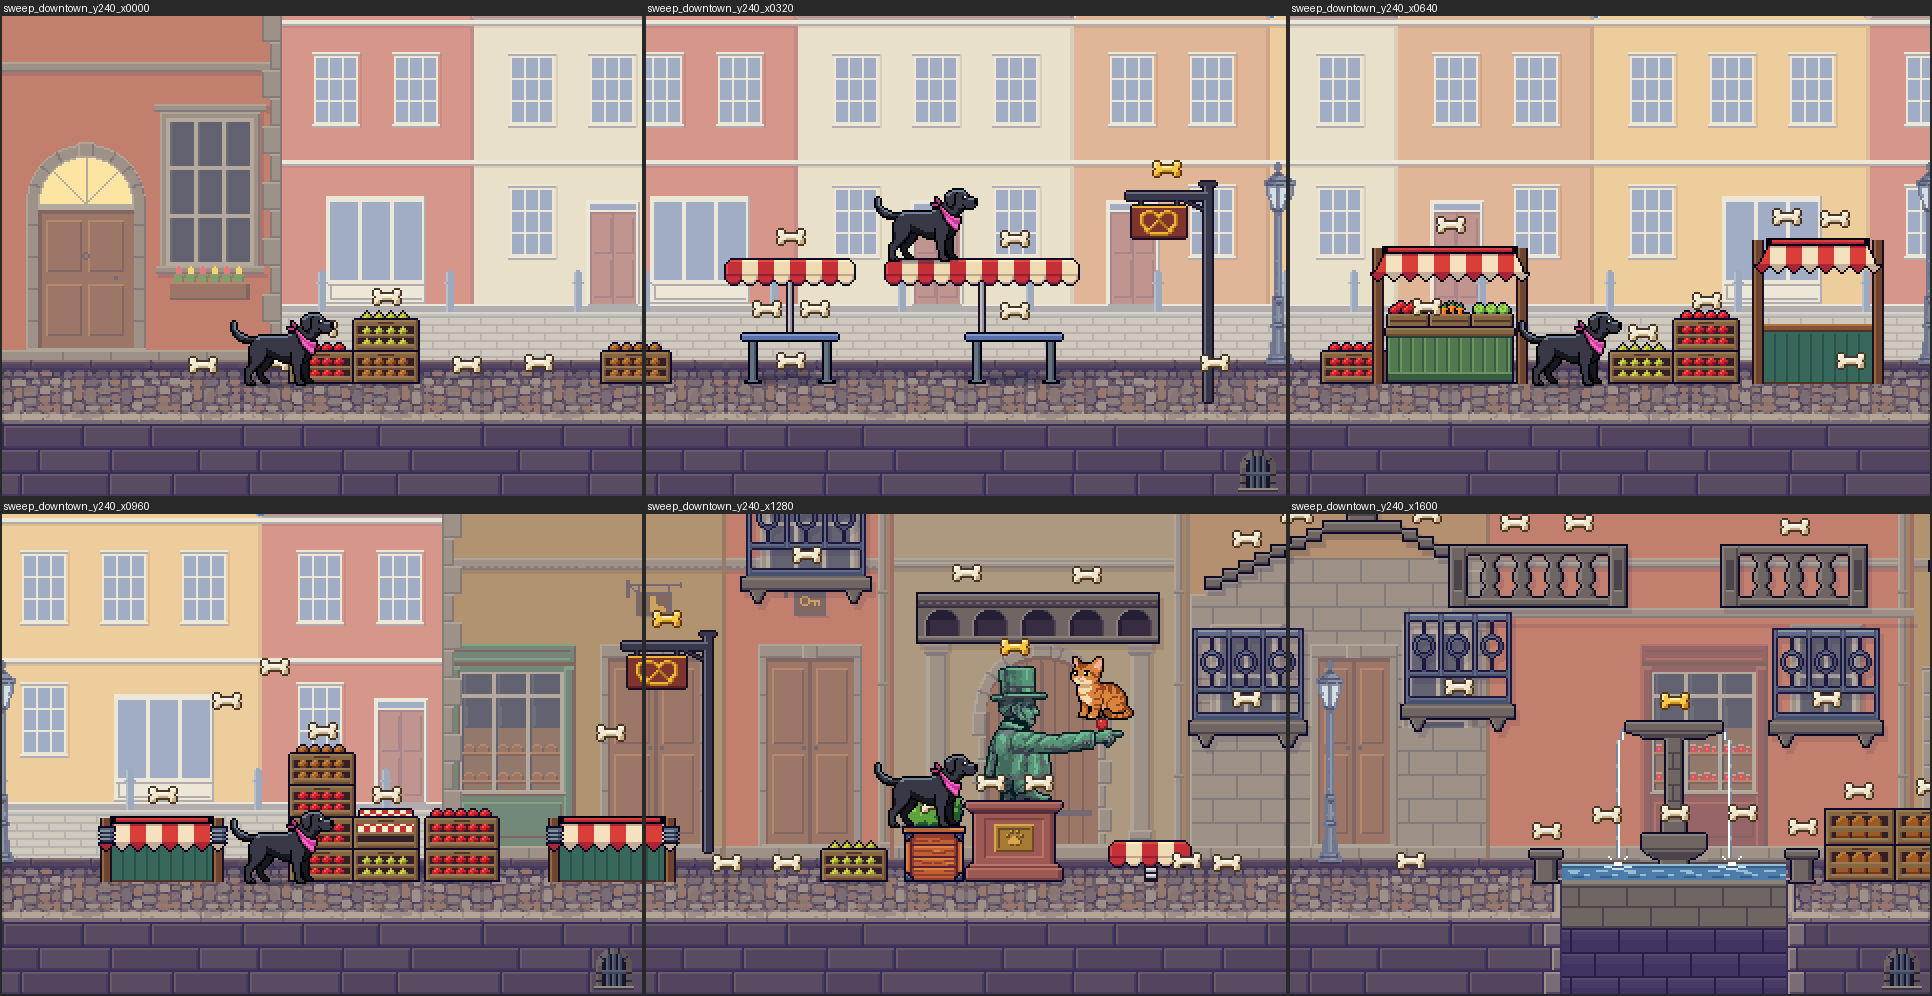
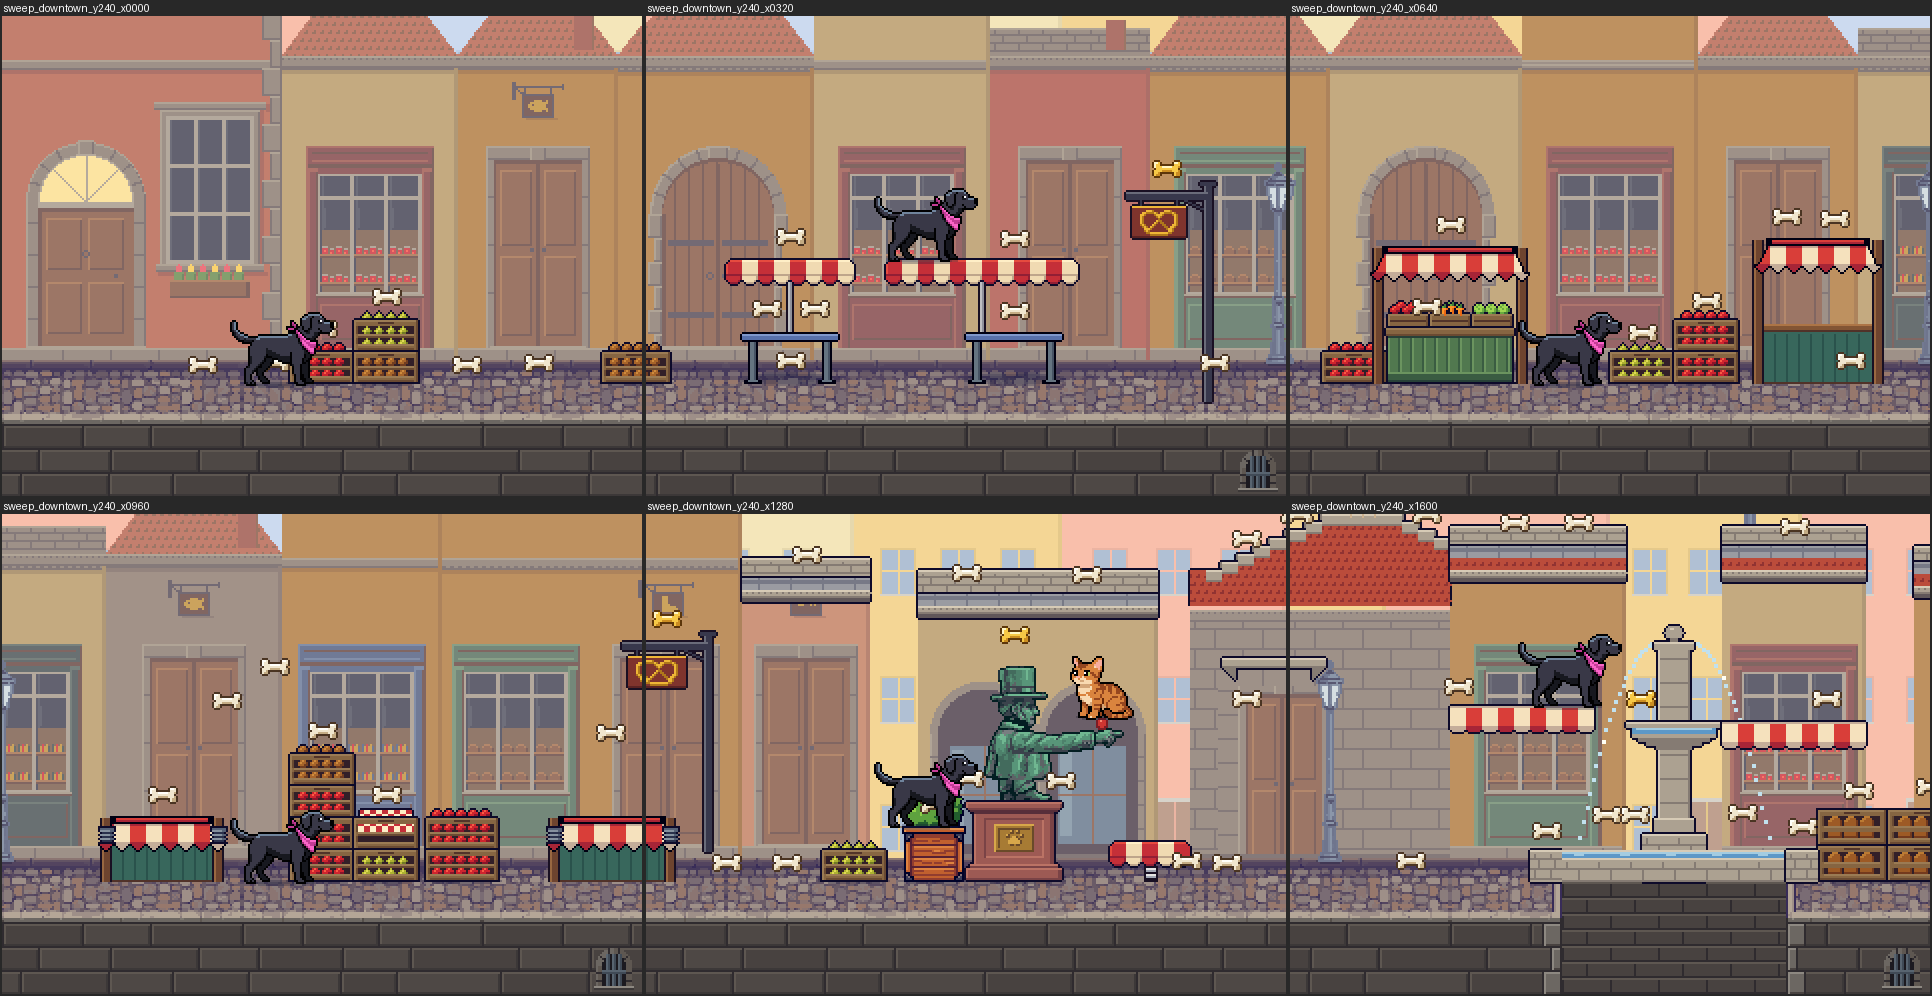
STATUS: 7 Nov day section after integration round 2 (sky again, dt); Downtown sheets, cargo gate and bonus frames
Claude-Session: https://claude.ai/code/session_01XkeHCjP6hqrE6SQGDYHeYV

diff --git a/docs/STATUS.md b/docs/STATUS.md
@@ -9,14 +9,14 @@
 4. `day/07nov-chars`: built cars, bikes and riders, the 24 px gull, the ferry, bones 15 x 9, hint pictures, the cat_r2.
 5. `day/07nov-bonusscene`: each bonus round in its level's own place.
 6. `day/07nov-ground`: ground joins by rule, the owner's ground reverts, City Park lawn kit; no kennel (secret KENNEL is now DOORSTEP).
+7. Round 2: `day/07nov-sky` again (3574b3c: Downtown's far city low and simple, 320 x 30).
+8. Round 2: `day/07nov-dt` (ea65d45): the Downtown (tall) low-row rebuild, review round 3 PASS.
 
-Not on it: `day/07nov-dt` (Downtown still in review).
+**Integration commits:** `check_pepper_files.sh` compares input.lua without the menus' last-used device block (it failed on main since 4afd8d2; Pepper unchanged by the trace and the lab). Two merge fixes for the bigger 15 x 9 bone: City Park tall's leaf-pile bones 143 and 144 moved 11 px left with their pile; Downtown tall bones 157, 158, 159 and 165 nudged 2 to 3 px clear of the statue, the arcade roof and the fountain column (`tools/dt_bone_overlap.py` now reads the bone size: 102 bones, 0 overlap).
 
-**Integration commits:** `check_pepper_files.sh` compares input.lua without the menus' last-used device block (it failed on main since 4afd8d2; Pepper unchanged by the trace and the lab). One merge fix: City Park tall's leaf-pile bones 143 and 144 moved 11 px left with their pile (cplog moved the pile, chars made bones wider, one knob showed).
+**Checks on the branch (after round 2):** PEPPER UNCHANGED (trace 3908, lab 1401), PEPPER FILES UNCHANGED, flow 125/125, Tiled PASSED, BACKDROP OK, APPROVED ALL MERGED; physics River Walk 56/56, City Park 85/85, City Park tall 99/99, Downtown tall 109/109 (the bark-drop goose test on the street included), Rooftops 139/139, Söder 29/29, Night 40/40; qa 0 problems (River Walk, City Park tall, Downtown tall); bonus tests 23/23 and every level's round by autopilot as before; the build tools' `--check` all OK (build_dt_rooftops 54 files). Curve T1 PASS, T2 FAIL (as on main: River Walk screen 13 at 36 %, Söder 9 Cafe tables at 50 %, unchanged), T3 PASS, T4 PASS. DI kids/parents as main on every level except Downtown tall, 13.7/16.1 on main to 13.3/19.1 (the low row's new route, as the dt review intended; lost runs 1.9 % to 2.5 %).
 
-**Checks on the branch:** PEPPER UNCHANGED (trace 3908, lab 1401), PEPPER FILES UNCHANGED, flow 125/125, Tiled PASSED, BACKDROP OK, APPROVED ALL MERGED; physics River Walk 56/56, City Park 85/85, City Park tall 99/99, Downtown tall 109/109, Rooftops 139/139, Söder 29/29, Night 40/40; qa 0 problems (River Walk, City Park tall, Downtown tall); bonus tests 23/23 and every level's round by autopilot as before; the build tools' `--check` all OK. Curve T1 PASS, T2 FAIL (as on main: River Walk screen 13 at 36 %, Söder 9 Cafe tables at 50 %, unchanged), T3 PASS, T4 PASS; DI within 0.1 of main on every level.
-
-**Look at:** `docs/review/07nov/integration/` (2x sheets of every screen of River Walk, City Park tall and Downtown tall, the hollow log crawl, the riders, the bone fix).
+**Look at:** `docs/review/07nov/integration/` (2x sheets of every screen of River Walk, City Park tall and Downtown tall, the hollow log crawl, the riders, the cargo bike at the gate, the bone fix, the Downtown bonus round).
 
 **Waiting for the owner:** merge `day/07nov-integration` into `main` after the board.
 
